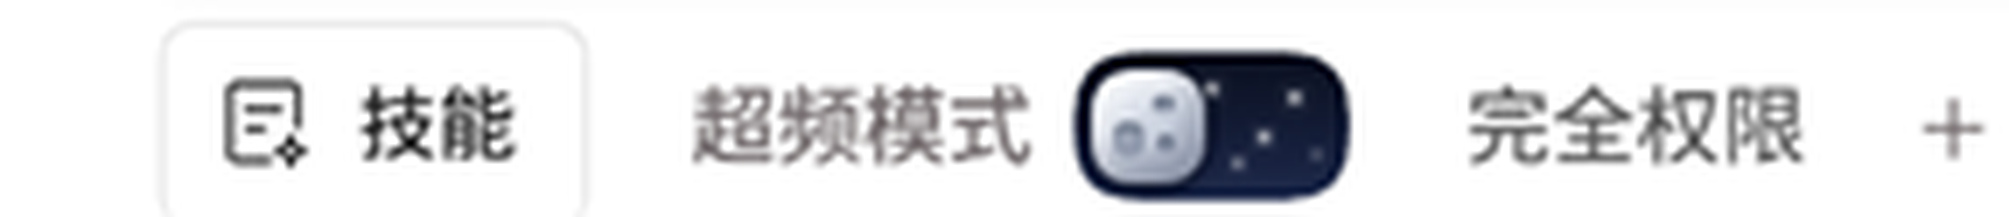
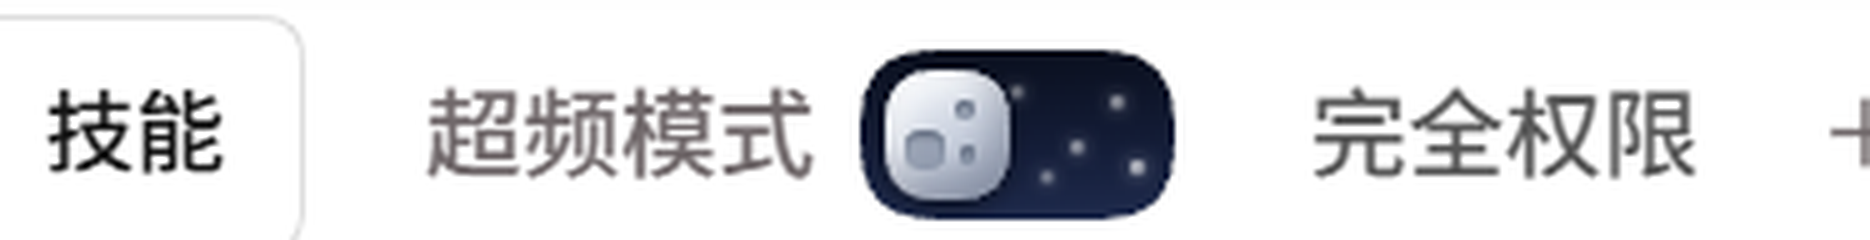
docs: refresh the switch screenshots and release 1.2.0

Changed region(s): [[0.0, 0.1935, 1.0, 0.9677], [0.0, 0.0553, 0.1551, 0.0829]]

diff --git a/README.md b/README.md
@@ -22,7 +22,7 @@
 
 打开某个会话的开关后，**只有这个会话**的系统提示词会追加一段指令；关掉就整段消失，不留空行。
 
-开关是**昼夜切换**：关 = 月亮（夜空 + 星星），开 = 太阳（晴空 + 暖阳 + 旋转高光）。
+开关是**昼夜切换**：关 = 月亮（夜空 + 星星闪烁 + 环形山），开 = 太阳（晴空 + 白云 + 暖阳 + 自转高光）。
 
 <div align="center">
 
@@ -46,7 +46,10 @@
 | 作用域 | **按会话**，只影响当前这一个会话 |
 | 状态文件 | `{ version, sessions: { "<sessionId>": true } }` |
 | 开关形态 | **昼夜切换**：月亮 = 关，太阳 = 开 |
-| 开态动效 | 天空交叉淡入 · 星星飞散 · 圆盘回弹位移 · 日晕亮起 · 高光自转 |
+| 关态细节 | 夜空渐变 + 5 颗各自不同周期闪烁的星 + 带 3 个环形山的月盘 |
+| 开态细节 | 晴空交叉淡入 + 3 朵错开浮现、缓慢飘移的白云 + 暖阳（外晕 + 自转内高光） |
+| 过渡时长 | 圆盘 / 日晕 / 星星共用 `--dsh-oc-move: 1.1s`，可见位移覆盖时长的 67%（≈730ms） |
+| 开态动效 | 天空交叉淡入 · 星星飞散 · 云错开浮现 · 日晕亮起 · 高光自转 |
 | 子代理 | 未显式设置时**沿 `parentSession` 链继承**最近一级 |
 | 状态区分 | 开 / 关 / **继承来的开或关**（轨道虚线描边） |
 | 减少动效 | 遵循 `prefers-reduced-motion`，动画与过渡全部停用 |
@@ -65,7 +68,7 @@
 
 3. 点 **安装**，完成后选 **立即启用**（或稍后在插件页启用 bundle）
 
-分支或 tag 也行：地址后加 `#main` 或 `#v1.1.0`。插件不自动更新，升级需卸载后重装。
+分支或 tag 也行：地址后加 `#main` 或 `#v1.2.0`。插件不自动更新，升级需卸载后重装。
 
 </details>
 
@@ -152,7 +155,11 @@ node tools/preview-button.mjs        # 生成 preview-button.html，用浏览器
 ```
 
 它用**真实的 client.js** 渲染（同一个 `apply()`、同一份样式表），把实际大小、4 倍放大、
-过渡采样帧、以及继承/忙碌/错误等状态摊在一页里，还会用不同动画相位证明动效真的在跑。
+过渡、以及继承/忙碌/错误等状态摊在一页里。第 3 行不是手画的中间态：它先把按钮以关态放进 DOM，
+再真的翻到开态，然后用 `Animation.currentTime` 把浏览器**真的建立起来的那批过渡对象**
+定格在 t 时刻——所以天空、星星、云、光晕、圆盘显示的都是当时的真实计算结果。
+页面底部会列出这一行到底定格到了几条过渡对象，为零就直接红字报错，不会静默跑空。
+另外还会用不同动画相位定格太阳的高光，证明确实在自转（不是一张静态图）。
 
 ## 常见问题
 
